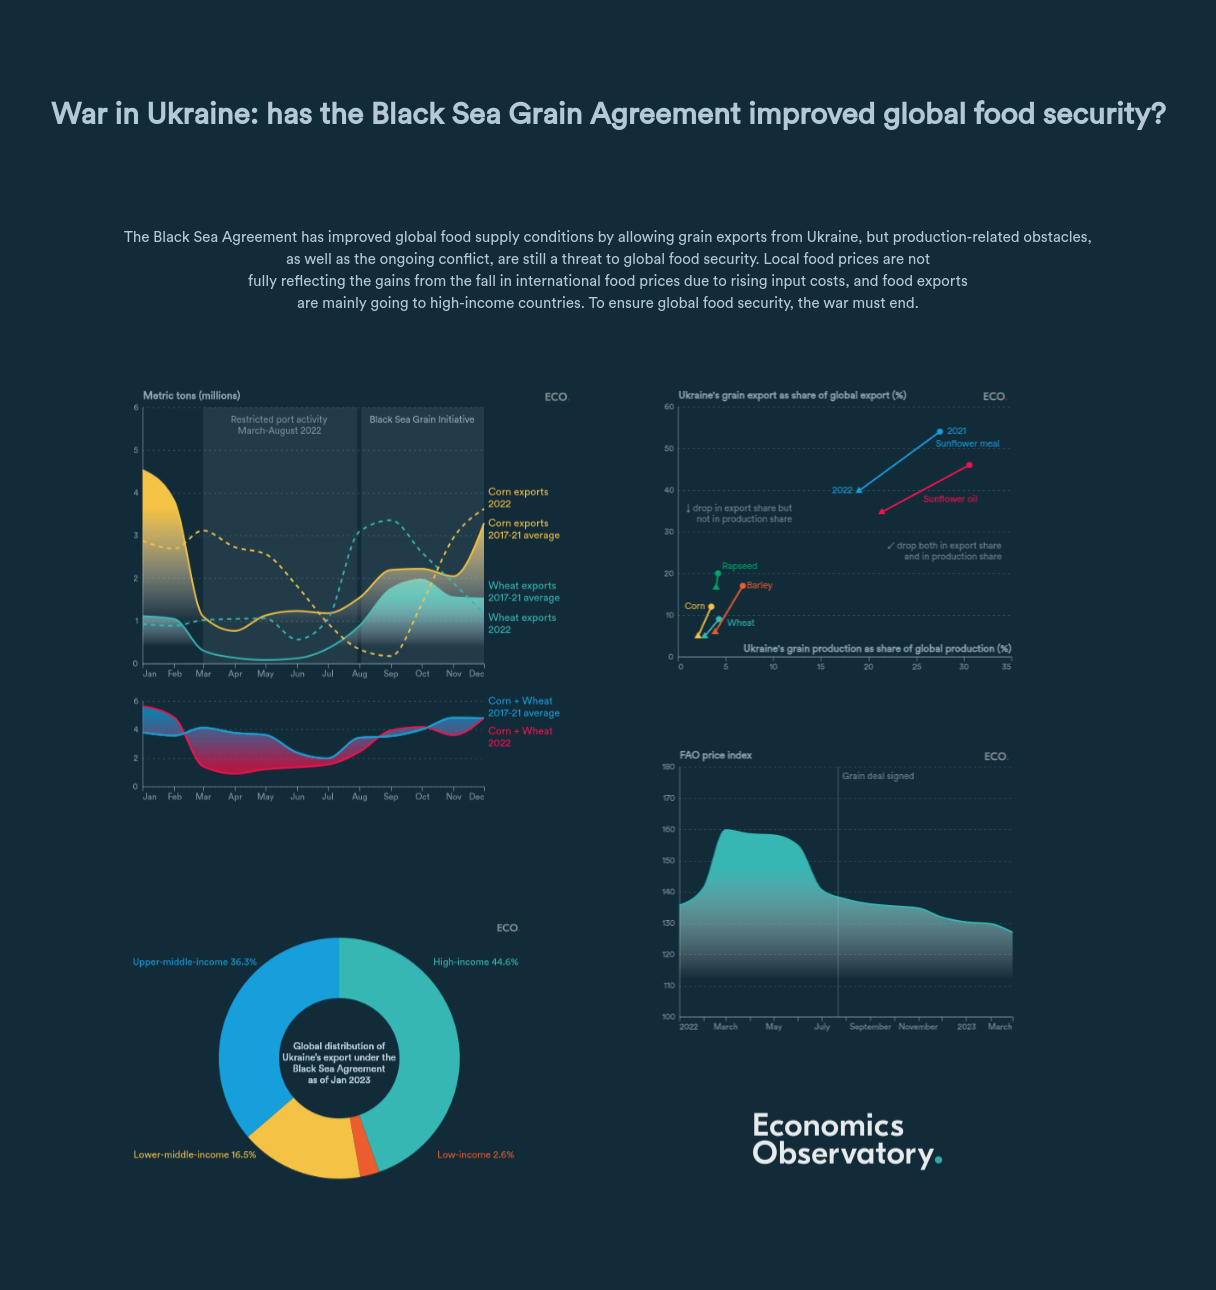
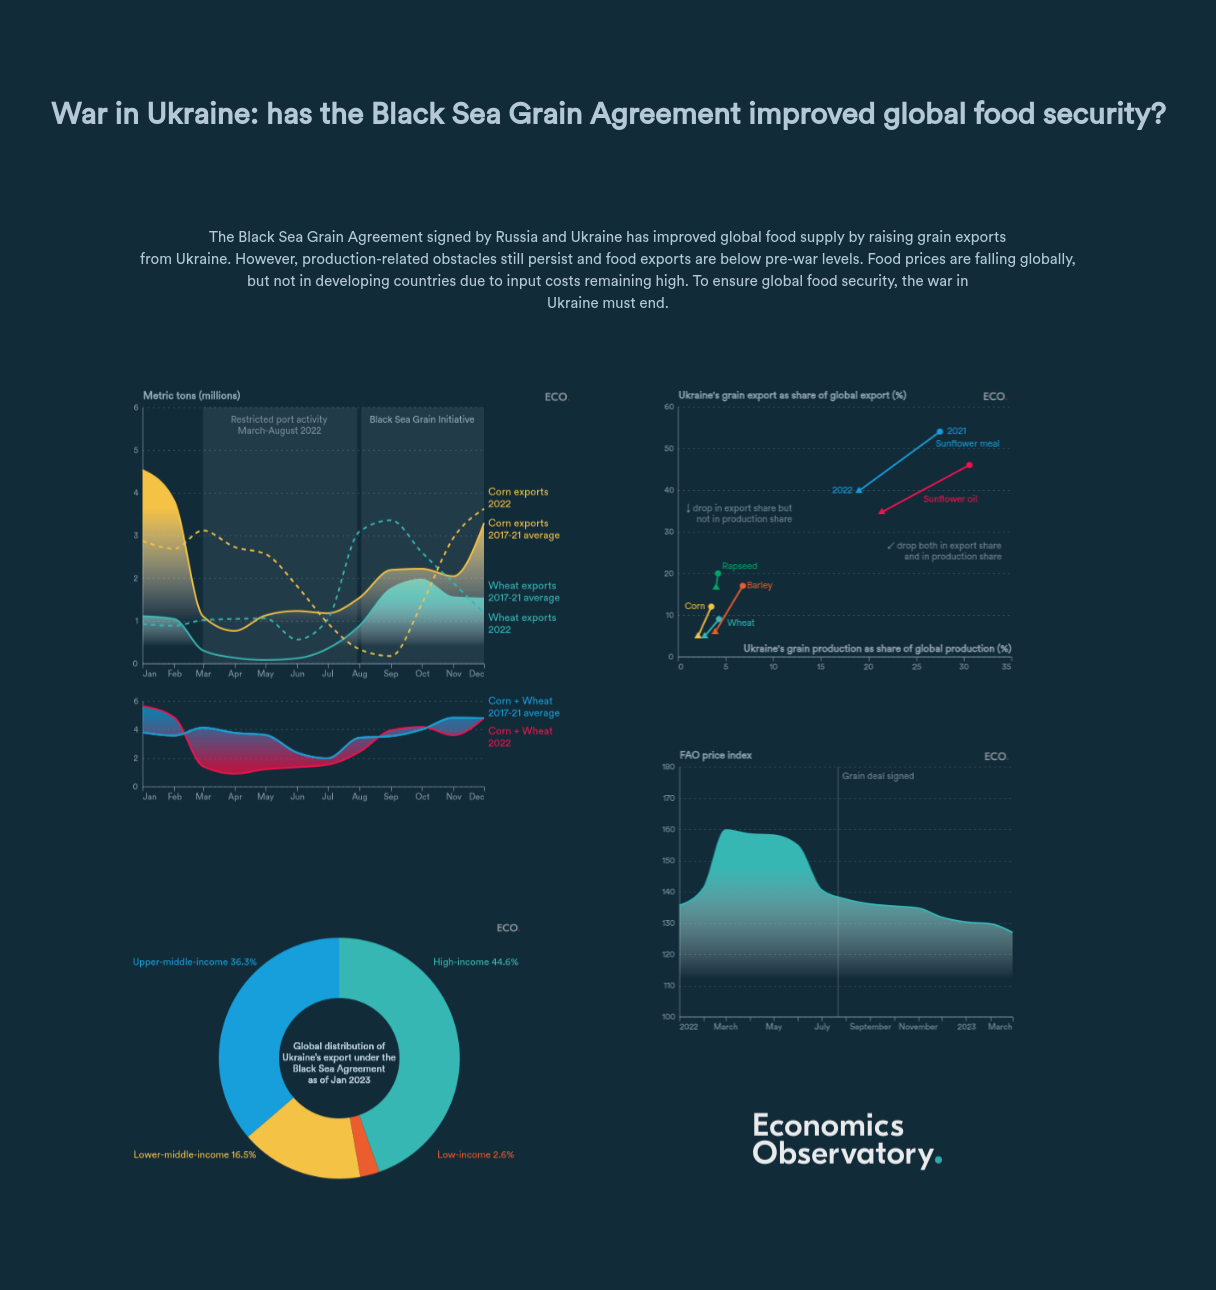
adds collages

Changed region(s): [[0.125, 0.155, 0.875, 0.2481]]

diff --git a/articles/war-in-ukraine-has-the-black-sea-grain-agreement-improved-global-food-security/README.md b/articles/war-in-ukraine-has-the-black-sea-grain-agreement-improved-global-food-security/README.md
@@ -98,3 +98,15 @@ Versions (no ECO branding) with data loaded from `GitHub`: [`png`](visualisation
 
 !["fig4_price_index_dark"](visualisation/fig4_price_index_dark.png "fig4_price_index")
 
+  
+
+## Infographics  
+Summary auto-generated using [ChatGPT](https://chat.openai.com/)    
+
+### Light theme  
+
+!["fig4_price_index"](visualisation/collage_light.png " collage_light")  
+
+### Dark theme  
+
+!["fig4_price_index"](visualisation/collage_dark.png " collage_dark")
